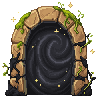
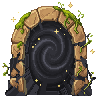
deploy vie 31/07/2026 20:11:35,03

diff --git a/public/game/boot.js b/public/game/boot.js
@@ -73,7 +73,7 @@ class BootScene extends Phaser.Scene {
     L.push(["tree_half", P + "tree_half.png"]);   // mitad del enfriamiento: árbol pelado con pocas ramas (PixelLab 31/7)
     L.push(["pond", P + "pond.png?v=2"]);
     L.push(["portal", P + "portal.png"]);   // portal al Bosque (frame quieto de respaldo)
-    for (let i = 0; i < 8; i++) L.push(["portal_" + i, P + "portal_" + i + ".png?v=4"]);   // v4: negro TODO el interior (antes quedaba el anillo verde del borde)
+    for (let i = 0; i < 8; i++) L.push(["portal_" + i, P + "portal_" + i + ".png?v=5"]);   // v5: gira TODA la boca (rotación elíptica), negro completo
     // v3: nodos plantados en la tierra + estados dañados (intermedio del cooldown)
     ["node_stone","node_bronze","node_gold","node_diamond","node_netherite"]
       .forEach(k => { L.push([k, P + k + ".png?v=3"]); L.push([k + "_half", P + k + "_half.png"]); });

diff --git a/public/game/ui.js b/public/game/ui.js
@@ -690,7 +690,7 @@ function placePrompt() {
   if (!hb) { p.style.bottom = "12px"; return; }
   const r = hb.getBoundingClientRect();
   if (!r.height || r.top < window.innerHeight * 0.5) { p.style.bottom = "12px"; return; }   // barra arriba: el aviso abajo
-  p.style.bottom = Math.round(Math.min(window.innerHeight * 0.55, window.innerHeight - r.top + 64)) + "px";   // 31/7: bien despegado de la barra (antes +10 y el cartel la tocaba)
+  p.style.bottom = Math.round(Math.min(window.innerHeight * 0.55, window.innerHeight - r.top + 34)) + "px";   // 31/7: despegado de la barra pero cerquita (64 quedaba muy arriba)
 }
 function initUniversalDrag() {
   document.querySelectorAll(".ov .card").forEach(c => makeHoldDrag(c));          // todas las ventanas
